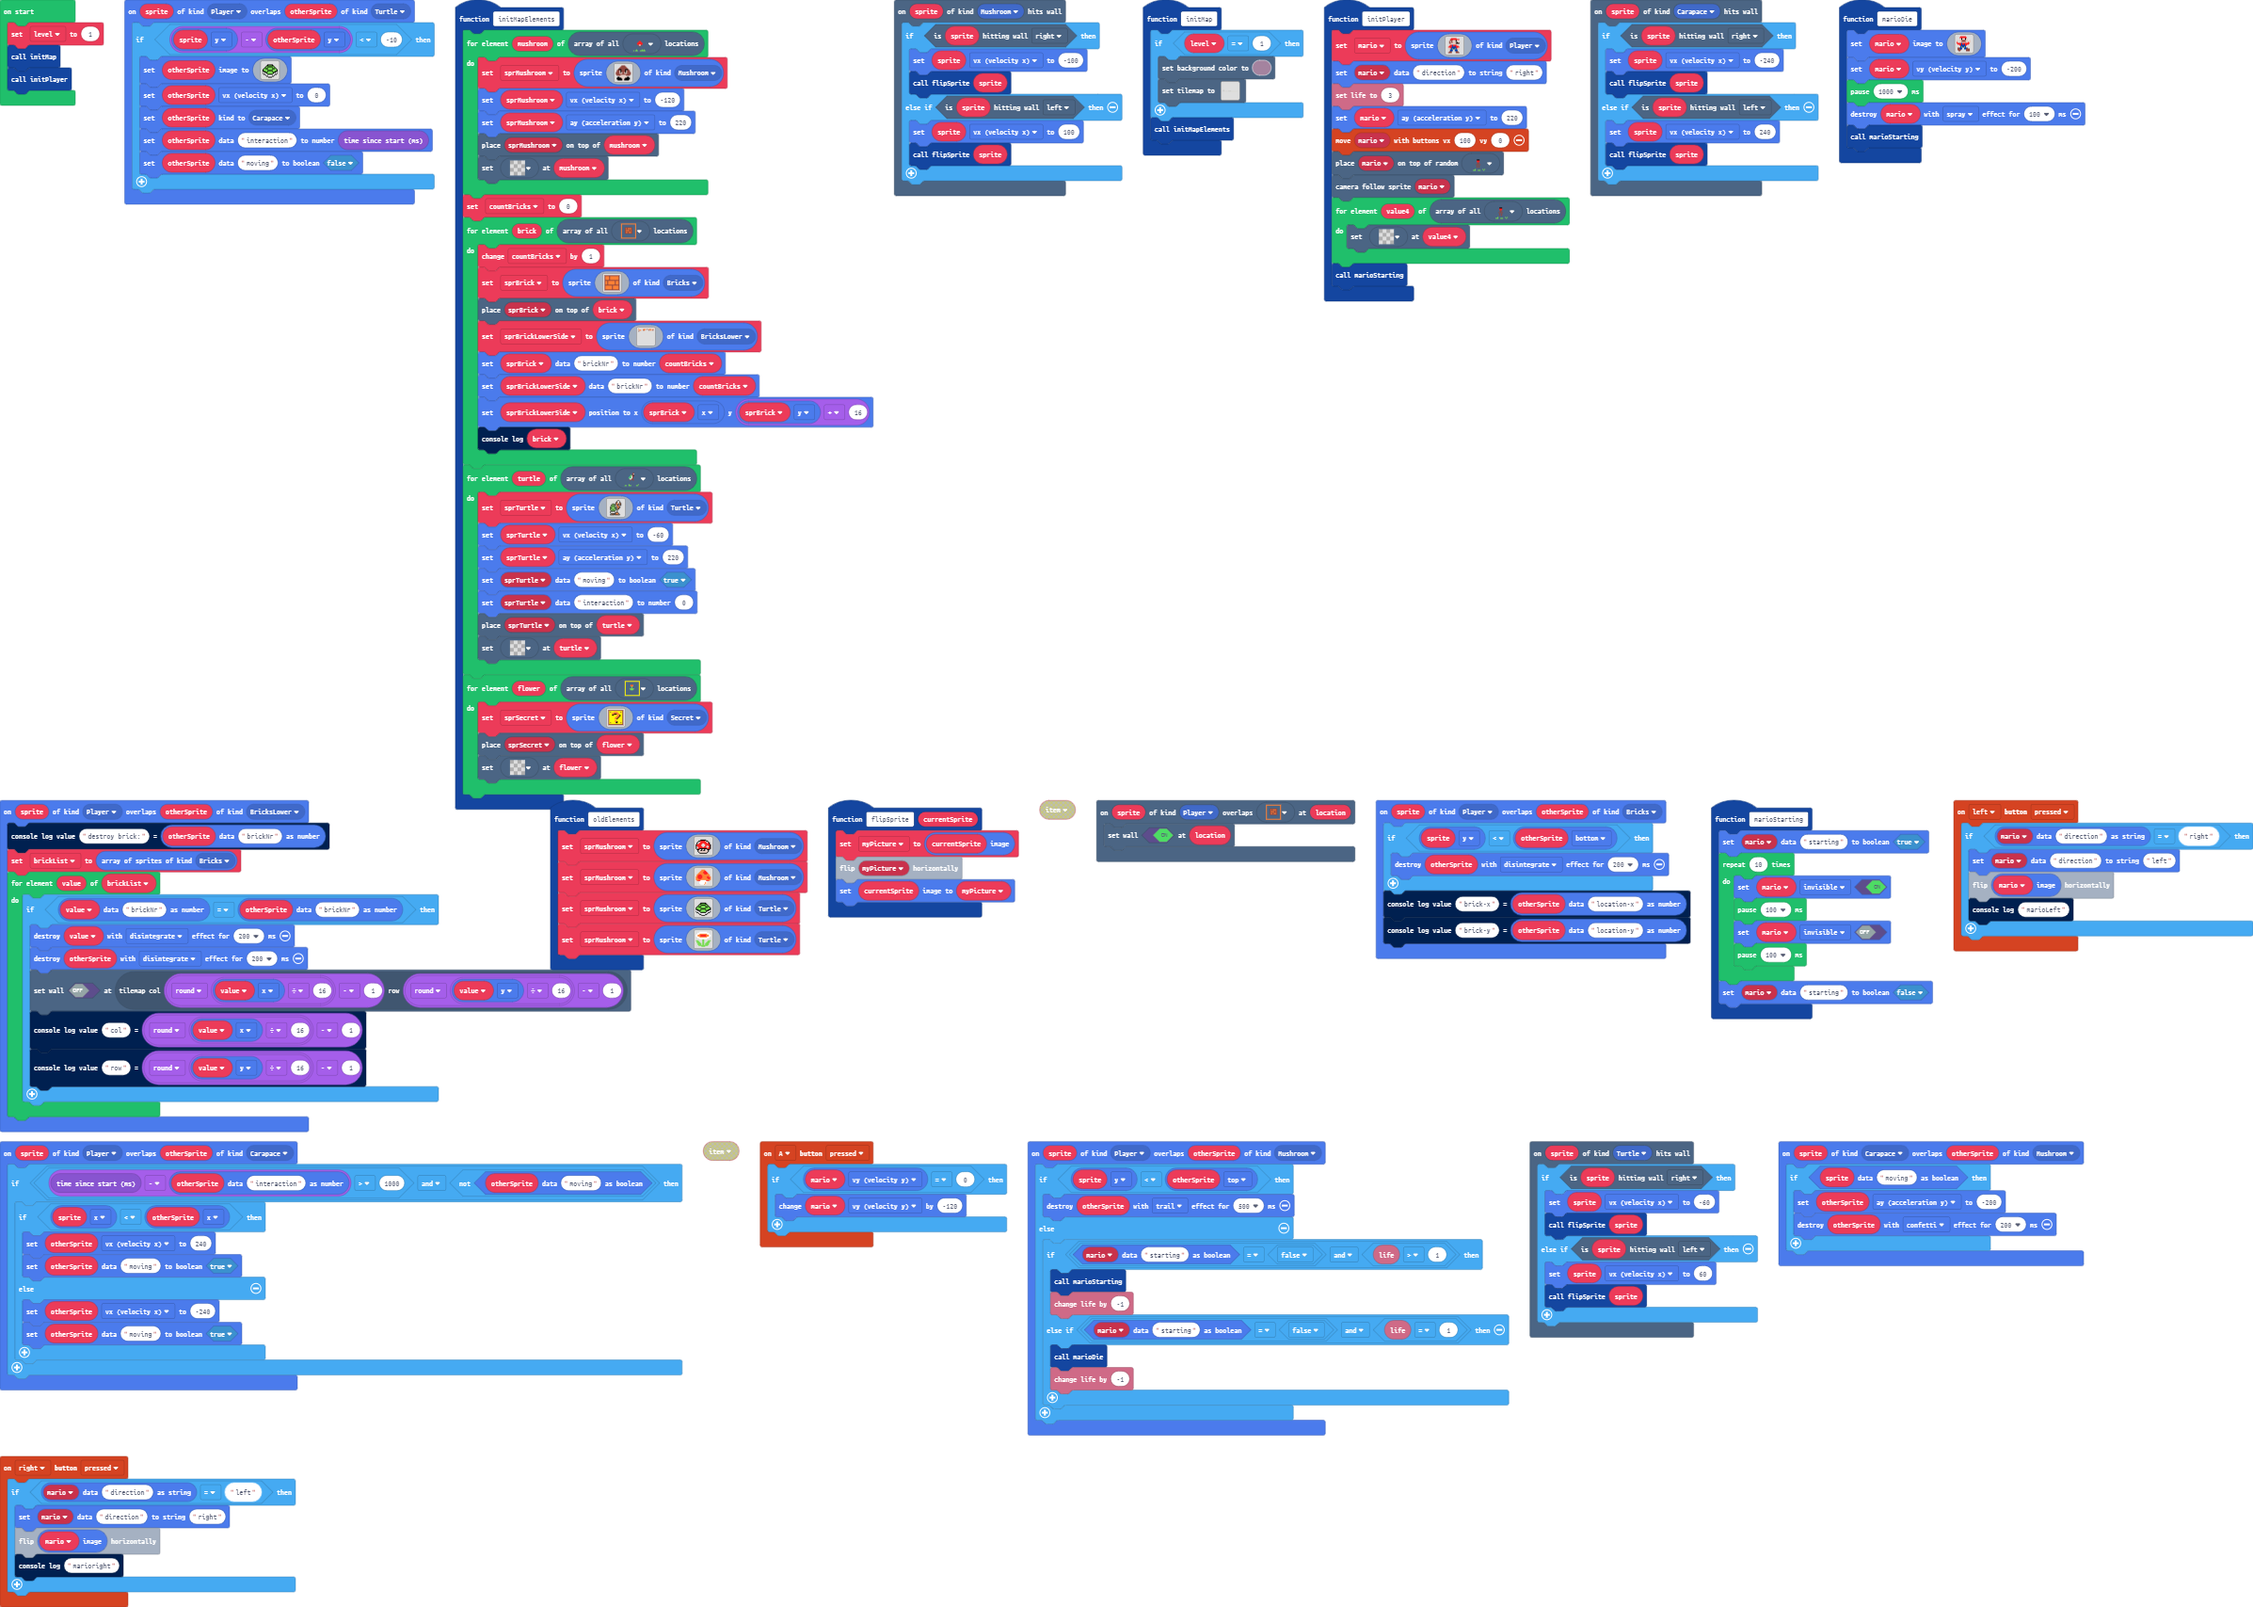
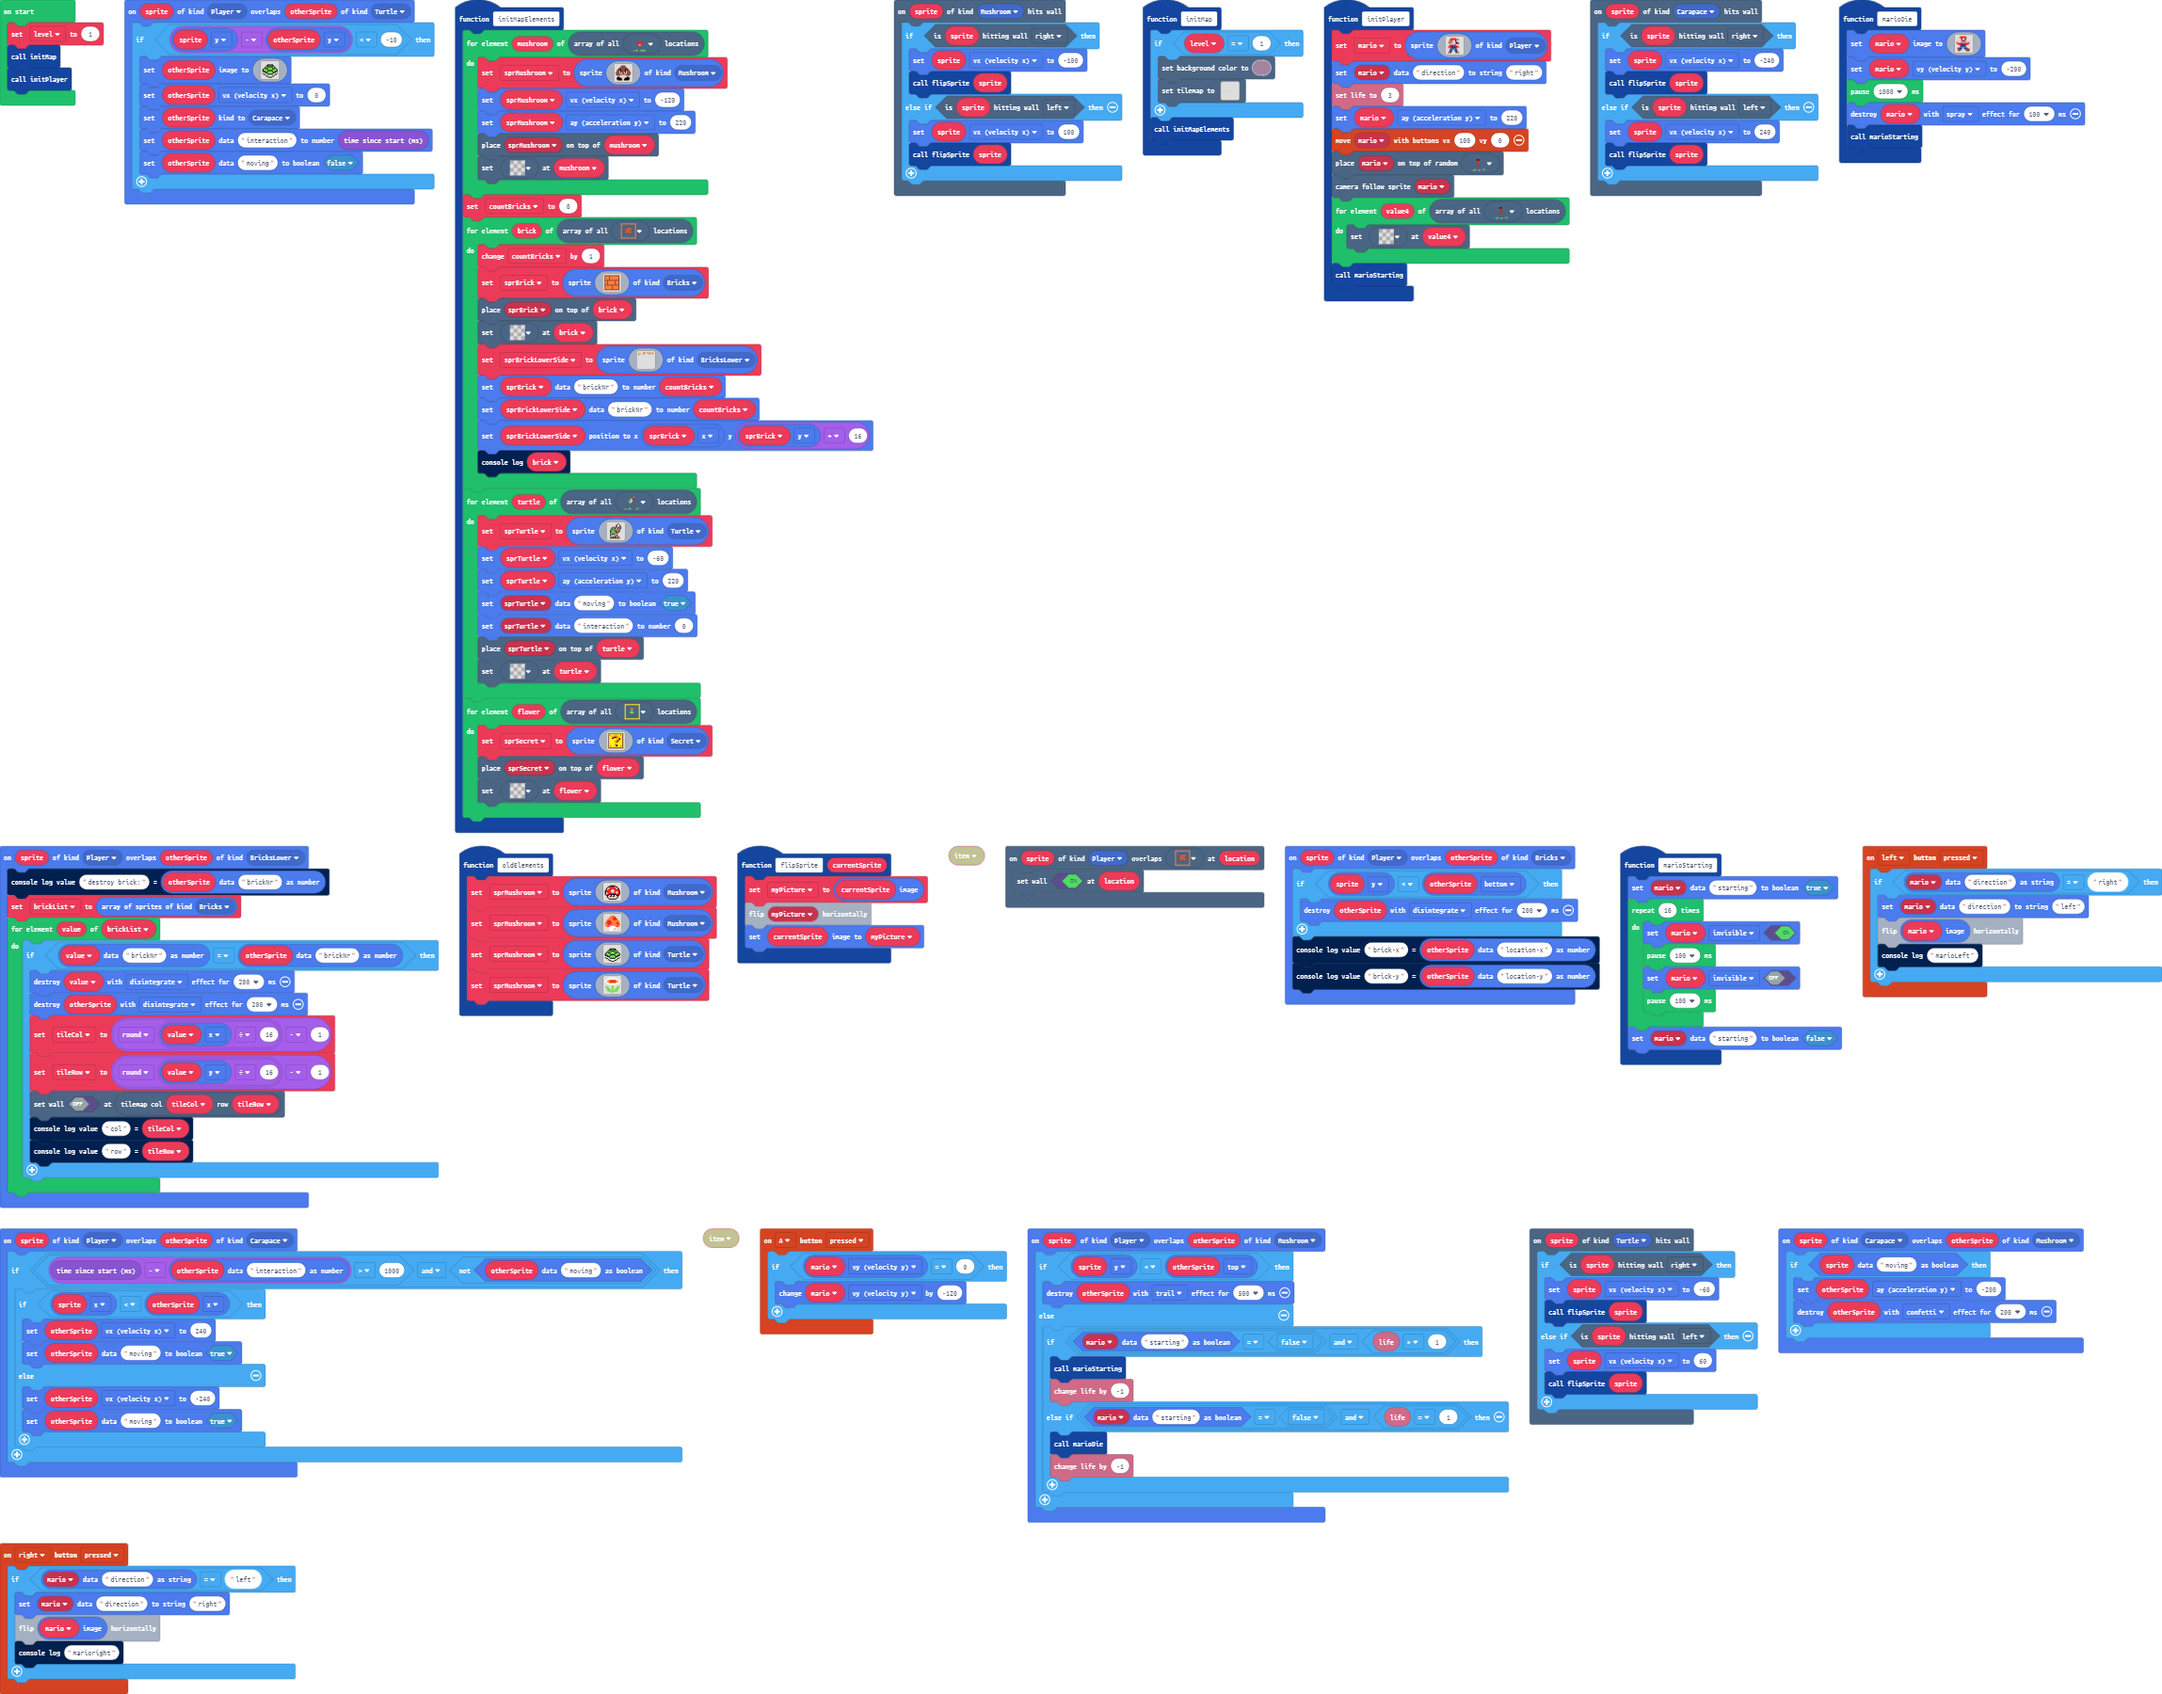
fixed error on wall distroy

Changed region(s): [[0.0, 0.0, 1.0, 0.9004], [0.3709, 0.0, 0.9582, 0.1863], [0.0, 0.9004, 0.1545, 0.9936]]

diff --git a/main.ts b/main.ts
@@ -347,6 +347,7 @@ e 4 4 4 4 4 4 4 e 4 4 4 4 4 4 e
 e e e e e e e e e e e e e e e e 
 `, SpriteKind.Bricks)
         tiles.placeOnTile(sprBrick, brick)
+        tiles.setTileAt(brick, myTiles.tile0)
         sprBrickLowerSide = sprites.create(img`
 4 . . . . 4 4 4 . e . 4 4 4 . 4 
 . 4 4 . . e 4 . . . . e . 4 . e 
@@ -455,7 +456,7 @@ function initMap () {
     if (level == 1) {
         scene.setBackgroundColor(11)
         tiles.setTilemap(tiles.createTilemap(
-            hex`5000080005000000001500000000000000000000000000000000000000000000000000000000000000000000000000000000000000000000000000000000000000000000000000000000000000000000000000000500000000190000000000000000000000000000000000000000000000000000000000000000000000000000000000000000000000000000000000000000000000000000000000000000000000000000050000000015000000000000000000000000000000000000000000000000000000000000000000000000000000000000000000000000000000000000000000000000000000000000000000000000000005000000001900000000000000000000000000000000000000000000000000000000000000000000000000000000000000000000000000000000000000000000000000000000000000000000000000001518151815031303000000000000050000000000000000000000000000000000000000000000000000000000000000000000000000000000000000000000000000000000000000000000000000000000050000000000000000000000000005000005000000000000000000000000000000000000000000000000000000000000000000000000000000000000000000000000000000000000000000000000000005001100000000000000000005050500000505090000080900000000080012001200000900090009000900090000000000000000000000000000000000000000000000000000000000000000000000000202020202020202020202020202060000070202020202020202020202020202020202020202020202020202020202020202020202020202020202020202020202020202020202020202020202020202`,
+            hex`5000080005000000000000000000000000000000000000000000000000000000000000000000000000000000000000000000000000000000000000000000000000000000000000000000000000000000000000000500000000000000000000000000000000000000000000000000000000000000000000000000000000000000000000000000000000000000000000000000000000000000000000000000000000000000050000000000000000000000000000000000000000000000000000000000000000000000000000000000000000000000000000000000000000000000000000000000000000000000000000000000000005000000000000000000000000000000000000000000000000000000000000000000000000000000000000000000000000000000000000000000000000000000000000000000000000000000000000000500000000031303000000000000050000000000000000000000000000000000000000000000000000000000000000000000000000000000000000000000000000000000000000000000000000000000050000000000000000000000000505000005000000000000000000000000000000000000000000000000000000000000000000000000000000000000000000000000000000000000000000000000000005001100000000000000000005050500000505090000080900000000080012001200000900090009000900090000000000000000000000000000000000000000000000000000000000000000000000000202020202020202020202020202060000070202020202020202020202020202020202020202020202020202020202020202020202020202020202020202020202020202020202020202020202020202`,
             img`
 2 . . . . . . . . . . . . . . . . . . . . . . . . . . . . . . . . . . . . . . . . . . . . . . . . . . . . . . . . . . . . . . . . . . . . . . . . . . . . . . . 
 2 . . . . . . . . . . . . . . . . . . . . . . . . . . . . . . . . . . . . . . . . . . . . . . . . . . . . . . . . . . . . . . . . . . . . . . . . . . . . . . . 
@@ -682,12 +683,16 @@ sprites.onOverlap(SpriteKind.Player, SpriteKind.BricksLower, function (sprite, o
         if (sprites.readDataNumber(value, "brickNr") == sprites.readDataNumber(otherSprite, "brickNr")) {
             value.destroy(effects.disintegrate, 200)
             otherSprite.destroy(effects.disintegrate, 200)
-            tiles.setWallAt(tiles.getTileLocation(Math.round(value.x / 16) - 1, Math.round(value.y / 16) - 1), false)
-            console.logValue("col", Math.round(value.x / 16) - 1)
-            console.logValue("row", Math.round(value.y / 16) - 1)
+            tileCol = Math.round(value.x / 16) - 1
+            tileRow = Math.round(value.y / 16) - 1
+            tiles.setWallAt(tiles.getTileLocation(tileCol, tileRow), false)
+            console.logValue("col", tileCol)
+            console.logValue("row", tileRow)
         }
     }
 })
+let tileRow = 0
+let tileCol = 0
 let brickList: Sprite[] = []
 let myPicture: Image = null
 let mario: Sprite = null
